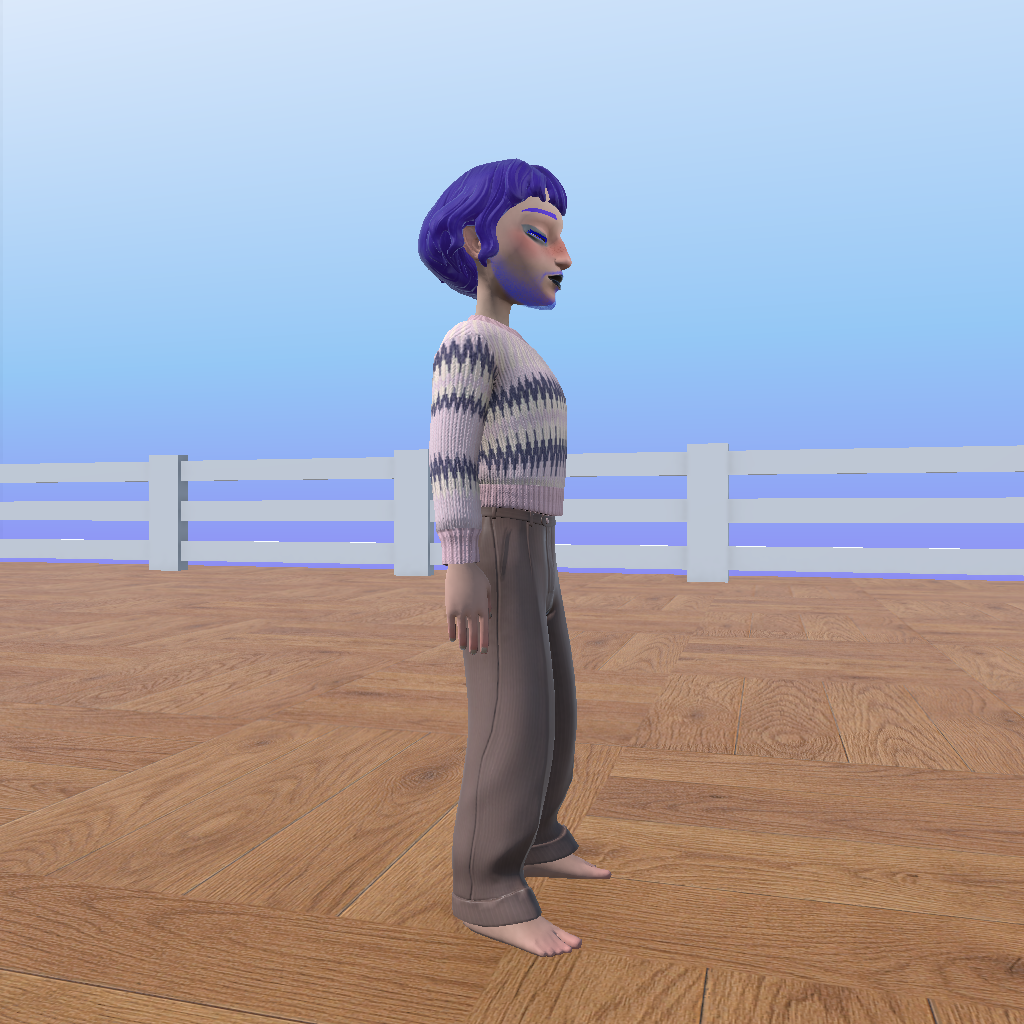
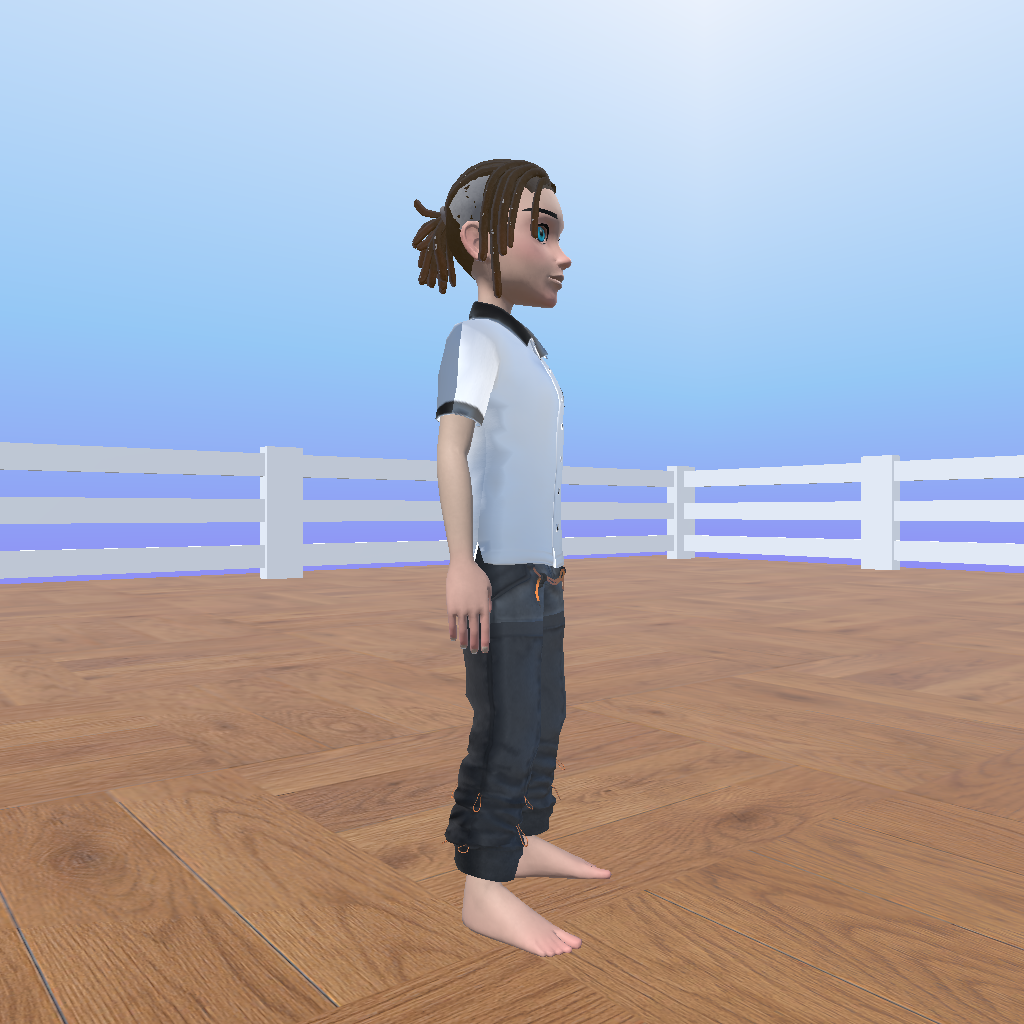
fix race condition with experiment timing and polling, update UI

diff --git a/Assets/Scripts/MainManager.cs b/Assets/Scripts/MainManager.cs
@@ -160,7 +160,6 @@ public class MainManager : MonoBehaviour
     {
         try
         {
-            // Stop polling when editing is finished
             StopDefinitionPolling();
 
             Debug.Log("1. Capturing Screenshots...");
@@ -206,17 +205,28 @@ public class MainManager : MonoBehaviour
 
     private async Task UploadImages()
     {
-        Task<string> taskPortrait = _imgBBManager.UploadImageAsync(_savedFilePaths[0]);
-        Task<string> taskFront = _imgBBManager.UploadImageAsync(_savedFilePaths[1]);
-        Task<string> taskSide = _imgBBManager.UploadImageAsync(_savedFilePaths[2]);
+        Task<string> taskPortrait = UploadImageWithRetry(_savedFilePaths[0]);
+        Task<string> taskFront    = UploadImageWithRetry(_savedFilePaths[1]);
+        Task<string> taskSide     = UploadImageWithRetry(_savedFilePaths[2]);
 
         await Task.WhenAll(taskPortrait, taskFront, taskSide);
 
-        _testRun.final_image_portrait = await taskPortrait;
-        _testRun.final_image_front = await taskFront;
-        _testRun.final_image_side = await taskSide;
+        _testRun.final_image_portrait = taskPortrait.Result;
+        _testRun.final_image_front    = taskFront.Result;
+        _testRun.final_image_side     = taskSide.Result;
 
         Debug.Log($"Images Uploaded! Portrait URL: {_testRun.final_image_portrait}");
+    }
+
+    private async Task<string> UploadImageWithRetry(string filePath, int maxAttempts = 3)
+    {
+        for (int attempt = 1; attempt <= maxAttempts; attempt++)
+        {
+            string url = await _imgBBManager.UploadImageAsync(filePath);
+            if (url != null) return url;
+            Debug.LogWarning($"Image upload attempt {attempt}/{maxAttempts} failed: {filePath}");
+        }
+        return null;
     }
 
     private Task<bool> UploadJsonAsyncWrapper(string binName, string jsonPayload)
@@ -313,16 +323,28 @@ public class MainManager : MonoBehaviour
     {
         _managedAvatar = _loadMyAvatar.LoadedAvatar;
         await AvatarSdk.OpenAvatarEditorAsync(_managedAvatar);
-        Debug.Log("Setting Default Avatar Definition in Editor..." + _defaultAvatar.avatar_definition);
-        await AvatarSdk.GetAvatarEditorAvatar().SetDefinitionAsync(_defaultAvatar.avatar_definition);
 
-        // Initialize the baseline definition and start polling
-        _lastKnownDefinition = GetAvatarDefinition();
+        // Record start time immediately — before SetDefinitionAsync, so it's always set
+        // even if the definition call fails.
         _testRun.num_actions_taken = 0;
-        StartDefinitionPolling();
-
         _startTime = DateTime.UtcNow;
         Debug.Log("Started Timing, Experiment Begins Now");
+
+        // Apply the default avatar definition. Wrapped in try-catch so that a failure
+        // doesn't prevent polling from starting — which was the original source of both bugs.
+        Debug.Log("Setting Default Avatar Definition in Editor..." + _defaultAvatar.avatar_definition);
+        try
+        {
+            await AvatarSdk.GetAvatarEditorAvatar().SetDefinitionAsync(_defaultAvatar.avatar_definition);
+        }
+        catch (Exception e)
+        {
+            Debug.LogWarning($"Failed to apply default avatar definition: {e.Message}. Continuing with current definition.");
+        }
+
+        // Always set the baseline and start polling, regardless of whether SetDefinitionAsync succeeded.
+        _lastKnownDefinition = GetAvatarDefinition();
+        StartDefinitionPolling();
     }
 
     private void StartDefinitionPolling()
@@ -342,9 +364,10 @@ public class MainManager : MonoBehaviour
 
     private IEnumerator PollDefinitionCoroutine()
     {
+        var wait = new WaitForSeconds(0.5f);
         while (true)
         {
-            yield return new WaitForSeconds(1f);
+            yield return wait;
 
             try
             {
